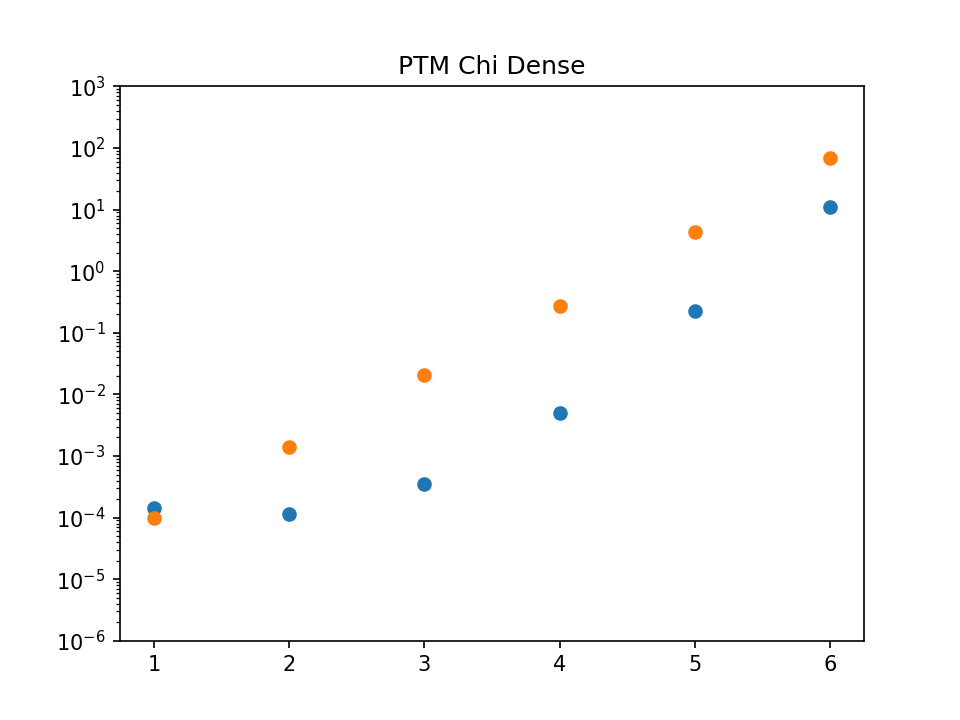
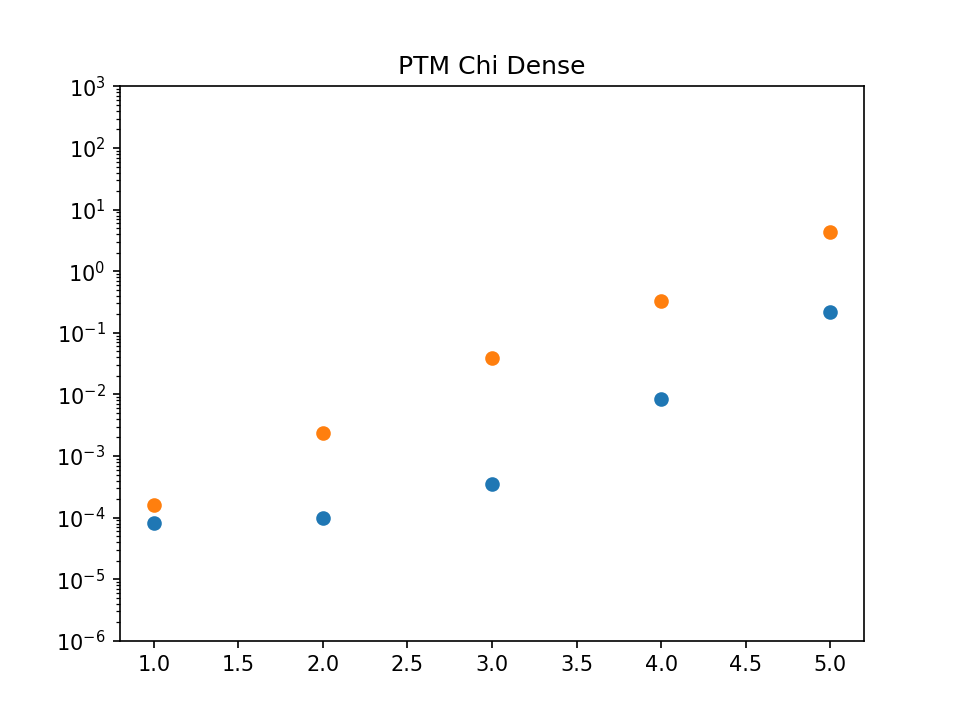
[Chi, Choi] Improved

diff --git a/Choi.py b/Choi.py
@@ -15,99 +15,73 @@ from qiskit.quantum_info.operators.channel import Choi, PTM
 import sys
 np.set_printoptions(suppress=True,linewidth=sys.maxsize,threshold=sys.maxsize)
 
-def PTM_Choi(matrix, midDim=None):
-	debug = False
-	"""
-		Calculates CMWs for n qubits, then TPD for the rows.
-	"""
+import cProfile
 
-	matDim = matrix.shape[0]
-	qBitDim = math.ceil(np.log(matDim)/np.log(2))
-	halfDim = int(2**(qBitDim-1))
+def PTM_Choi(matrix: np.ndarray):
+	matrix_dim: int = matrix.shape[0]
+	num_of_qubits: int = math.ceil(np.log(matrix_dim)/np.log(2))
+	half_qubits: int = int(num_of_qubits/2)
+	PTM: np.ndarray = np.zeros((matrix_dim,matrix_dim),dtype=np.complex64)
+	recursive_Choi(matrix, num_of_qubits, PTM, half_qubits)
+	return PTM
 
-	# Flag for recursion start
-	flag1 = False
-	if midDim is None:
-		flag1 = True
-		midDim = int(2**(qBitDim/2))
+def recursive_Choi(matrix: np.ndarray, num_of_qubits: int, PTM: np.ndarray, half_qubits: int, index_col: int=0, index_row: int=0):
+	num_of_qubits -= 1
+	halved_dim: int = 1 << num_of_qubits
+	top_left: np.ndarray = matrix[0:halved_dim, 0:halved_dim]
+	top_right: np.ndarray = matrix[0:halved_dim, halved_dim:]
+	bottom_left: np.ndarray = matrix[halved_dim:, 0:halved_dim]
+	bottom_right: np.ndarray = matrix[halved_dim:, halved_dim:]
 
-	decomposition = []
+	if num_of_qubits >= half_qubits:
+		cmw_1: np.ndarray = top_left + bottom_right
+		cmw_2: np.ndarray = bottom_left + top_right
+		cmw_3: np.ndarray = 1.0j * (bottom_left - top_right)
+		cmw_4: np.ndarray = top_left - bottom_right
+		cmws: list[np.ndarray] = [cmw_1, cmw_2, cmw_3, cmw_4]
+		
+		col_dim: int = 1 << (num_of_qubits - half_qubits)
+		index: int = 0
+		for cmw in cmws:
+			# if cmw.any():
+			recursive_Choi(cmw, num_of_qubits,PTM,half_qubits,index_col+index)
+			index += col_dim**2
 
-	# Output for dimension 1
+	elif num_of_qubits > 0:
+		cmw_1: np.ndarray = 0.5 * (top_left + bottom_right)
+		cmw_x: np.ndarray = 0.5 * (bottom_left + top_right)
+		cmw_y: np.ndarray = -0.5j * (bottom_left - top_right)
+		cmw_z: np.ndarray = 0.5 * (top_left - bottom_right)
+		cmws: list[np.ndarray] = [cmw_1, cmw_x, cmw_y, cmw_z]
+		
 
-	if qBitDim == 0:
-		decomposition = [matrix[0,0]]
-		del matrix
+		index: int = 0
+		for cmw in cmws:
+			# if cmw.any():
+			recursive_Choi(cmw, num_of_qubits,PTM,half_qubits,index_col,index_row+index)
+			index += halved_dim**2
+	
+	elif num_of_qubits == 0:
+		cmw_1: np.ndarray = 0.5 * (top_left + bottom_right)
+		cmw_x: np.ndarray = 0.5 * (bottom_left + top_right)
+		cmw_y: np.ndarray = -0.5j * (bottom_left - top_right)
+		cmw_z: np.ndarray = 0.5 * (top_left - bottom_right)
+		cmws: list[np.ndarray] = [cmw_1, cmw_x, cmw_y, cmw_z]
 
-	# Calculates the tensor product coefficients via the sliced submatrices.
-	# If one of these components is zero that coefficient is ignored.
-
-	if halfDim >= midDim:
-
-		coeff1 = (matrix[0:halfDim, 0:halfDim]
-						+ matrix[halfDim:, halfDim:])
-		coeffX = (matrix[halfDim:, 0:halfDim]
-						+matrix[0:halfDim, halfDim:])
-		coeffY = (1.j*matrix[halfDim:, 0:halfDim]
-						-1.j*matrix[0:halfDim, halfDim:])
-		coeffZ = (matrix[0:halfDim, 0:halfDim]
-						- matrix[halfDim:, halfDim:])
-
-		coefficients = {"I": coeff1, "X": coeffX, "Y": coeffY, "Z": coeffZ}
-		del matrix
-
-		# Recursion for the Submatrices
-
-		for i,c in enumerate(coefficients):
-			mat = coefficients[c]
-			if mat.any() != 0:
-				subDec = PTM_Choi(mat,midDim)
-			else:
-				subDec = [[0. for _ in range(int(midDim**2))] for i in range(int(matDim**2/midDim**2))]
-			if halfDim == midDim:
-				decomposition.append(subDec)
-			else:
-				decomposition.extend(subDec)
-
-	elif qBitDim > 0:
-
-		coeff1 = 0.5*(matrix[0:halfDim, 0:halfDim]
-						+ matrix[halfDim:, halfDim:])
-		coeffX = 0.5*(matrix[halfDim:, 0:halfDim]
-						+ matrix[0:halfDim, halfDim:])
-		coeffY = -1.j*0.5*(matrix[halfDim:, 0:halfDim]
-						- matrix[0:halfDim, halfDim:])
-		coeffZ = 0.5*(matrix[0:halfDim, 0:halfDim]
-						- matrix[halfDim:, halfDim:])
-
-		coefficients = {"I": coeff1, "X": coeffX, "Y": coeffY, "Z": coeffZ}
-		del matrix
-
-		# Recursion for the Submatrices
-
-		for i,c in enumerate(coefficients):
-			mat = coefficients[c]
-			if mat.any() != 0:
-				subDec = PTM_Choi(mat,midDim)
-			else:
-				subDec = [0. for _ in range(int(halfDim**2))]
-			if halfDim == midDim:
-				decomposition.append(subDec)
-			else:
-				decomposition.extend(subDec)	
-
-	if flag1:
-		return np.array(decomposition).transpose()
-
-	return decomposition
+		index: int = 0
+		for cmw in cmws:
+			# if cmw.any():
+			PTM[index_row+index][index_col] = cmw[0][0]
+			index += 1
+	return
 
 if __name__ == "__main__":
-	qDim = 1
+	qDim = 6
 	data = TM.denseRandom(4**qDim)
-	mat = PTM_Choi(data)
+	cProfile.run("PTM_Choi(data)")
 
 	ChoiMat = Choi(data)
 	mat2 = PTM(ChoiMat).data
-	print("mat\n",np.array_str(mat, precision=1))
-	print("mat2\n",np.array_str(mat2, precision=1))
-	print("dif\n",np.array_str(mat2-mat, precision=1))
+	# print("dif\n",np.array_str(mat2-mat, precision=1))
+
+	

diff --git a/IterChi.py b/IterChi.py
@@ -1,0 +1,84 @@
+import numpy as np
+
+import logging
+logger = logging.getLogger(__name__)
+
+from qiskit.quantum_info import SparsePauliOp
+from qiskit.quantum_info.operators import Operator, Pauli
+from qiskit.quantum_info.operators.channel import Chi, PTM
+
+import scipy.sparse as SS
+
+import TestMatrices as TM
+
+from PTM_utils import matrix_slice, matrix_embedding
+
+import sys
+np.set_printoptions(suppress=True,linewidth=sys.maxsize,threshold=sys.maxsize)
+
+pauliList: list = ["I","X","Y","Z"]
+
+conjII = [1,0,0,0,0,1,0,0,0,0,1,0,0,0,0,1]
+conjIX = [0,1,0,0,1,0,0,0,0,0,0,1j,0,0,-1j,0]
+conjIY = [0,0,1,0,0,0,0,-1j,1,0,0,0,0,1j,0,0]
+conjIZ = [0,0,0,1,0,0,1j,0,0,-1j,0,0,1,0,0,0]
+
+conjXI = [0,1,0,0,1,0,0,0,0,0,0,-1j,0,0,1j,0]
+conjXX = [1,0,0,0,0,1,0,0,0,0,-1,0,0,0,0,-1]
+conjXY = [0,0,0,-1j,0,0,1,0,0,1,0,0,1j,0,0,0]
+conjXZ = [0,0,1j,0,0,0,0,1,-1j,0,0,0,0,1,0,0]
+
+conjYI = [0,0,1,0,0,0,0,1j,1,0,0,0,0,-1j,0,0]
+conjYX = [0,0,0,1j,0,0,1,0,0,1,0,0,-1j,0,0,0]
+conjYY = [1,0,0,0,0,-1,0,0,0,0,1,0,0,0,0,-1]
+conjYZ = [0,-1j,0,0,1j,0,0,0,0,0,0,1,0,0,1,0]
+
+conjZI = [0,0,0,1,0,0,-1j,0,0,1j,0,0,1,0,0,0]
+conjZX = [0,0,-1j,0,0,0,0,1,1j,0,0,0,0,1,0,0]
+conjZY = [0,1j,0,0,-1j,0,0,0,0,0,0,1,0,0,1,0]
+conjZZ = [1,0,0,0,0,-1,0,0,0,0,-1,0,0,0,0,1]
+
+single_conjugation = [conjII,conjIX,conjIY,conjIZ,conjXI,conjXX,conjXY,conjXZ,conjYI,conjYX,conjYY,conjYZ,conjZI,conjZX,conjZY,conjZZ]
+
+def PTM_Chi(matrix: np.ndarray):
+	matrix_dim: int = matrix.shape[0]
+	num_of_qubits: int = int((matrix_dim.bit_length() - 1)/2)
+	output_dim: int = 1 << int(2*num_of_qubits)
+	PTM: np.ndarray = np.zeros((output_dim,output_dim),dtype=np.complex64)
+	recursive_Chi(matrix, num_of_qubits, PTM)
+	return PTM
+	
+def recursive_Chi(matrix: np.ndarray, num_of_qubits: int, output: np.ndarray, row_index: int = 0, col_index: int = 0):
+	num_of_qubits -= 1
+	minor_dim: int = 1 << int(2*num_of_qubits)
+	slices: list[np.ndarray] = [matrix[i*minor_dim:(i+1)*minor_dim,j*minor_dim:(j+1)*minor_dim] for j in range(4) for i in range(4)]
+	cmwis: list[list[np.ndarray]] = [[sum([slices[l]*single_conjugation[4*i+j][l] for l in range(16)]) for j in range(4)] for i in range(4)]
+
+	if num_of_qubits == 0:
+		indexi: int = 0
+		for i, cmwi in enumerate(cmwis):
+			indexj: int = 0
+			for j, cmwij in enumerate(cmwi):
+				output[row_index+indexi][col_index+indexj] =  cmwij[0][0]
+				indexj += 1
+			indexi += 1
+
+	else:
+		indexi: int = 0
+		for i, cmwi in enumerate(cmwis):
+			indexj: int = 0
+			for j, cmwij in enumerate(cmwi):
+				recursive_Chi(cmwij, num_of_qubits, output, row_index+indexi, col_index+indexj)
+				indexj += minor_dim
+			indexi += minor_dim
+	
+	return
+
+if __name__ == "__main__":
+	logging.basicConfig(level=logging.DEBUG)
+	qDim = 3
+	data1 = TM.denseRandom(4**qDim)
+	mat = PTM_Chi(data1)
+	Chi = Chi(data1)
+	mat2 = PTM(Chi).data
+	logger.info(f"{np.array_str(4**(qDim/2)*mat2-mat, precision=1)}")

diff --git a/Benchmarking.py b/Benchmarking.py
@@ -3,6 +3,9 @@ import numpy as np
 import timeit
 import time
 
+import logging
+logger = logging.getLogger(__name__)
+
 import matplotlib.pyplot as plt
 
 from Commutator import PTM_commutator, PTM_anticommutator
@@ -39,10 +42,10 @@ maxQdims = {"Commutator": 7,
 			"Multiplication": 7,
 			"Conjugation": 5,
 			"Slicing": 14,
-			"Chi": 7,
+			"Chi": 6,
 			"SuperOp_old": 7,
             "SuperOp": 8,
-			"Choi": 6}
+			"Choi": 7}
 
 
 def benchmark(matrixType, mapType, maxQdim, SOp=False, QK=False):
@@ -52,22 +55,26 @@ def benchmark(matrixType, mapType, maxQdim, SOp=False, QK=False):
 	if SOp:
 		base = 4
 	if QK:
-		print("\n QK")
+		logger.info(f"QK")
+		logger.info(f"qubits \t time \t growth")
 		for qDim in range(1, maxQdim):
 			data = matrizes[matrixType](base ** qDim)
 			data = mapsQK[mapType](data)
 			start_time = timeit.default_timer()
 			CH.PTM(data)
 			times.append(timeit.default_timer() - start_time)
-			if output and qDim > 1: print(f"{qDim} & {times[-1]} & {times[-1] / times[-2]}")
+			if qDim > 1:
+				logger.info(f"{qDim} \t {times[-1]:.2f} \t {(times[-1] / times[-2]):.2f}")
 	else:
-		print("\n TPD")
-		for qDim in range(0, maxQdim):
+		logger.info(f"TPD")
+		logger.info(f"qubits \t time \t growth")
+		for qDim in range(1, maxQdim):
 			data = matrizes[matrixType](base ** qDim)
 			start_time = timeit.default_timer()
 			maps[mapType](data)
 			times.append(timeit.default_timer() - start_time)
-			if output and qDim > 0: print(f"{qDim} & {times[-1]} & {times[-1] / times[-2]}")
+			if qDim > 1:
+				logger.info(f"{qDim} \t {times[-1]:.2f} \t {(times[-1] / times[-2]):.2f}")
 	return times
 
 
@@ -79,24 +86,25 @@ def benchmarkPlot(matrixType, mapType, maxQdim, SOp=False):
 		ax.scatter(range(1, maxQdim), timesQK)
 		ax.set_ylim([10 ** (-6), 10 ** 3])
 	times = benchmark(matrixType, mapType, maxQdim, SOp)
-	ax.scatter(range(1, maxQdim), times[1:])
+	ax.scatter(range(1, maxQdim), times)
 	ax.set_yscale('log')
 	ax.set_title(f"PTM {mapType} {matrixType}")
 	plt.savefig(f"PlotsPTM/PTM{mapType}{matrixType}.png", dpi=150)
 
 
 if __name__ == "__main__":
-	matrixTypes = ["Dense"]
+	logging.basicConfig(level=logging.INFO)
+	matrixTypes = ["Diag", "Dense"]
 	mapTypes = []
 	#	 ["Commutator","Anticommutator","Multiplication","Conjugation","Slicing"]
-	SOpmapTypes = ["SuperOp"]  # SuperOp_old, "Chi"
+	SOpmapTypes = ["Chi"]  # SuperOp_old, "Chi"
 	for matrixType in matrixTypes:
-		print("\n" + matrixType)
+		logger.info(f"{matrixType}")
 		for mapType in mapTypes:
 			maxQdim = maxQdims[mapType]
-			print("\n" + mapType)
+			logger.info(f"{mapType}")
 			benchmarkPlot(matrixType, mapType, maxQdim)
 		for mapType in SOpmapTypes:
 			maxQdim = maxQdims[mapType]
-			print("\n" + mapType)
+			logger.info(f"{mapType}")
 			benchmarkPlot(matrixType, mapType, maxQdim, True)

diff --git a/Chi.py b/Chi.py
@@ -54,13 +54,11 @@ single_conjugation = {"II":conjII,
 
 
 def PTM_Chi(matrix):
-	debug = False
 	"""
 	input: Chi matrix
 	"""
 	dim = matrix.shape[0]
 	qDim = int((dim.bit_length() - 1)/2)
-	if debug: print("Dim",qDim)
 	sliceDim = 4**(qDim - 1)
 	PTMdim = 1 << (2*qDim)
 	PTM = np.zeros((PTMdim,PTMdim),dtype=np.complex64)
@@ -69,13 +67,10 @@ def PTM_Chi(matrix):
 	else:
 		for i,pauliIndI in enumerate(pauliList):
 			for j,pauliIndJ in enumerate(pauliList):
-				if debug: print("i,j",i,j)
 				rest = matrix[i*sliceDim:(i+1)*sliceDim,j*sliceDim:(j+1)*sliceDim]
 				PTMsc = single_conjugation[pauliIndI+pauliIndJ]
-				if debug: print(PTMsc)
 				PTMrc = PTM_Chi(rest)
 				PTM += np.kron(PTMsc,PTMrc)
-				if debug: print(np.array_str(PTM, precision=1))
 				del PTMrc,PTMsc
 	return PTM
 

diff --git a/IterTPD.py b/IterTPD.py
@@ -47,7 +47,6 @@ def recursive_tpd(matrix: np.ndarray, num_of_qubits: int, pauli_weights: np.ndar
     return
 
 def itpd(vector: np.ndarray, num_of_qubits: int):
-    debug = True
     if num_of_qubits == 0:
         return np.array(vector[0])
     else:
@@ -60,7 +59,6 @@ def itpd(vector: np.ndarray, num_of_qubits: int):
 
 
 def recursive_itpd(matrix: np.ndarray, num_of_qubits: int, can_weights: np.ndarray, index_outer: int = 0):
-    debug = True
     num_of_qubits -= 1
     halved_dim: int = 1 << num_of_qubits
     top_left: np.ndarray = matrix[0:halved_dim, 0:halved_dim]
